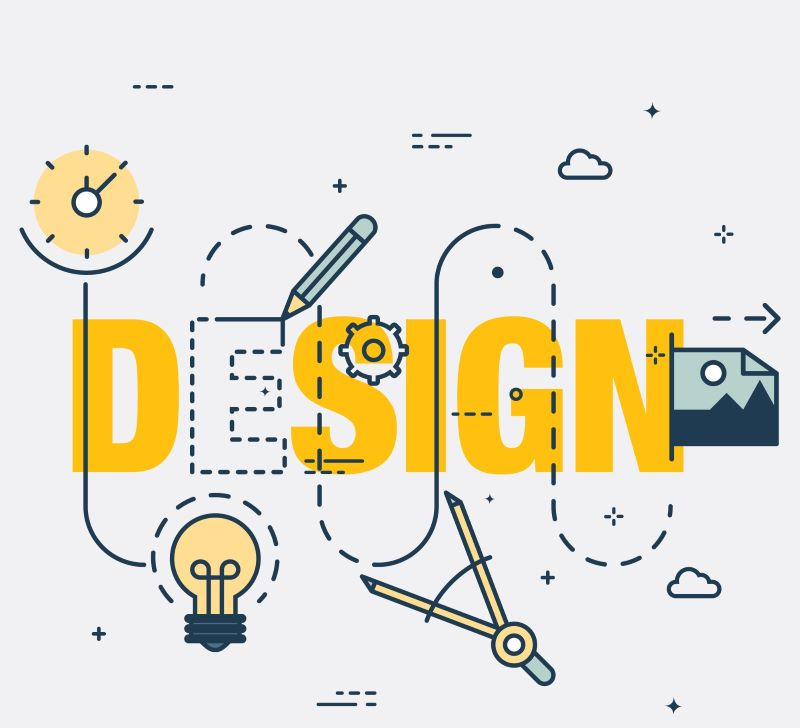
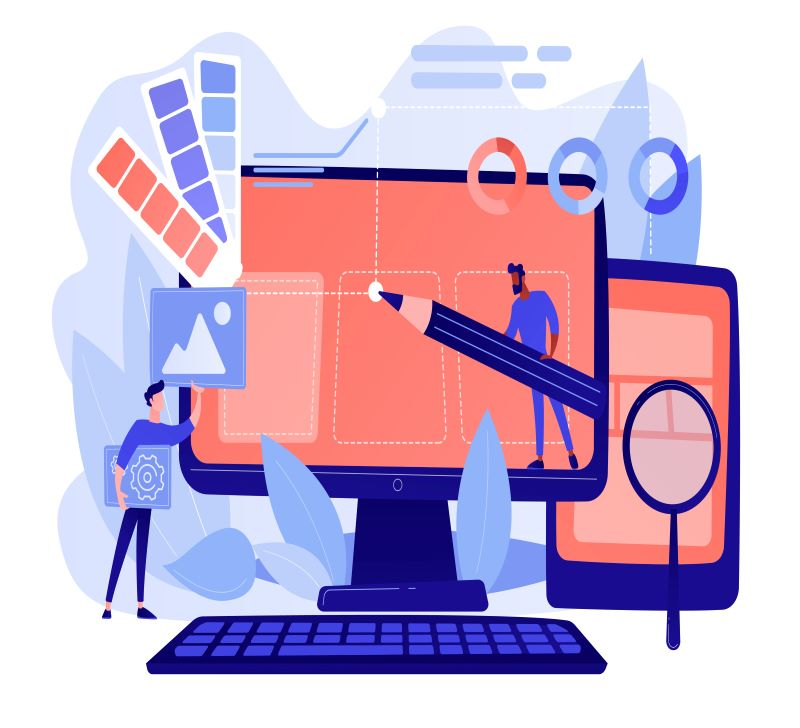
added missing image

diff --git a/src/app/components/start/start.component.html b/src/app/components/start/start.component.html
@@ -31,7 +31,7 @@
     <div class="col">
       <div class="card bg-secondary text-white h-100">
         <div class="image-container">
-          <img class="card-img-top" alt="Design" src="/public/images/design_b_800_728.jpg" height="728" width="800">
+          <img class="card-img-top" alt="Design" src="/public/images/design_800_728.jpg" height="728" width="800">
         </div>
         <div class="card-body d-flex flex-column">
           <h3 class="card-title">Design</h3>
